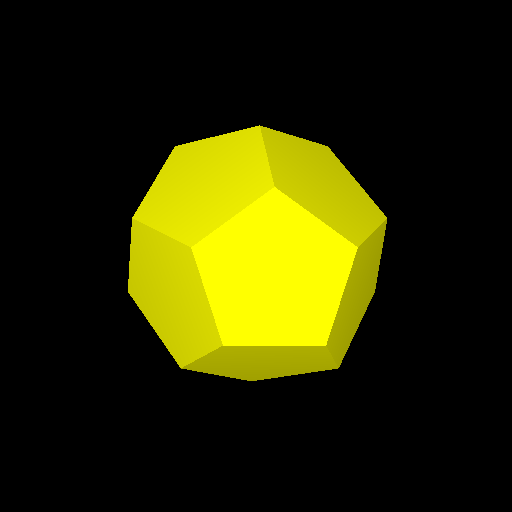
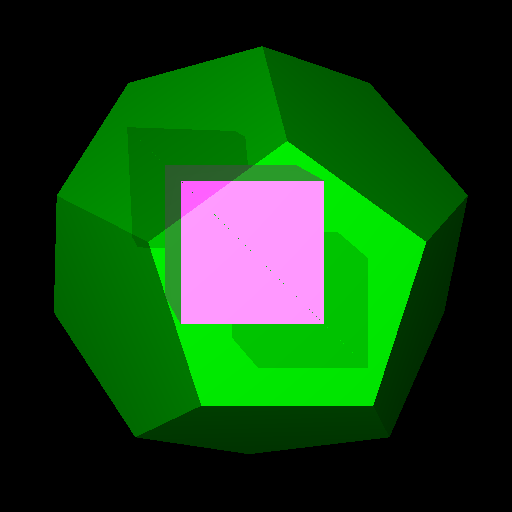
Trying to put object inside dodekaedr...

diff --git a/Source/main.cpp b/Source/main.cpp
@@ -22,6 +22,23 @@ find_hit(std::vector<Object *> *scene, Ray ray) {
     return hit;
 }
 
+float
+find_light(std::vector<Object *> *scene, std::vector<Light> *lights, Vec intersect, Collision hit) {
+    size_t light_len = lights->size();
+    float add = 0;
+    for (size_t i = 0; i < light_len; i++) {
+        Vec light_dir = (*lights)[i].pos - intersect;
+        Ray to_light(intersect, light_dir.normalize());
+        Collision intersected = find_hit(scene, to_light);
+        if (!intersected.hit) {
+            float angle = abs(dot(light_dir.normalize(), hit.normal.normalize()));
+            float distance = light_dir.len();
+            add += angle * ((*lights)[i].intensity / (distance * distance));
+        }
+    }
+    return add;
+}
+
 void 
 render(int size) {
     if (size < 0) {
@@ -34,62 +51,53 @@ render(int size) {
             buffer[x + y * size] = Color(0, 0, 0, 1.f);
         }
     }
-    float size_f = size;
     std::vector<Light> lights = std::vector<Light>();
     lights.push_back(Light(Vec(0, 0, -size * 5), 10000000));
-    //lights.push_back(Light(Vec(0, 0, 0), 1)); 
+    lights.push_back(Light(Vec(-size, -size, -size * 5), 10000000));
+    
     std::vector<Object*> scene = std::vector<Object*>();
+    std::vector<Object*> sphere = std::vector<Object*>();
 
     float me_dist = size * 2;
     Vec me(0, 0, -me_dist);
- /*   float side = size_f / 5;
-    float small_side = side / 3;
-    float big_side = size_f / 2;
-
-    Vec shift(size / 5, size / 5, 0);
     
-    Rectangle big(Vec(0, 0, size) + shift, Vec(0, big_side, size) + shift, Vec(big_side, big_side, size) + shift, Vec(big_side, 0, size) + shift);
+    Dodekaedr d(Vec(size / 3, size / 3, 0), Vec(0, 0, 1), size / 5);
+   
+    float side = size / 5; 
+    Vec shift(size / 4, size / 4, size / 3);
     Rectangle base(Vec(0, 0, 0) + shift, Vec(0, side, 0) + shift, Vec(side, side, 0) + shift, Vec(side, 0, 0) + shift);
-    Rectangle small(Vec(0, 0, -size) + shift, Vec(0, small_side, -size) + shift, Vec(small_side, small_side, -size) + shift, Vec(small_side, 0, -size) + shift);
-    
     Cube cube(base);
-    Cube small_cube(small);
-    Cube big_cube(big); 
-    
-    scene.push_back(&cube);
-    scene.push_back(&small_cube);
-    scene.push_back(&big_cube);
-*/
-    //Pentagon p(Vec(size / 3, size / 3, 0), Vec(size / 10, 0, 0), Vec(0, 0, 1));
-    Dodekaedr d(Vec(size / 3, size / 3, 0), Vec(0, 0, 1), size / 8);
-    scene.push_back(&d);
-    //scene.push_back(&p);
 
-    float base_light = 0.1;
+    sphere.push_back(&d);
+    scene.push_back(&cube);
+
+    float base_sphere_light = 0.2;
+    float base_scene_light = 0.4;
+    float EPS = 0.05;
     for (int x = 0; x < size; x++) {
         for (int y = 0; y < size; y++) {
             Vec dir = (Vec(x, y, size) - me).normalize();
             Ray ray = Ray(me, dir);
-            Collision hit = find_hit(&scene, ray);
+            Collision hit = find_hit(&sphere, ray);
+            //find_hit(&scene, ray);
             
             if (hit.hit) {
-                buffer[x + y * size] = Color(1, 1, 0, 1) * base_light;
-                Vec intersect = me + (dir * hit.dist);
-                for (size_t i = 0; i < lights.size(); i++) {
-                    Vec light_dir = lights[i].pos - intersect;
-                    Ray to_light(intersect, light_dir.normalize());
-                    Collision intersected = find_hit(&scene, to_light);
-                    if (!intersected.hit) {
-                        float angle = abs(dot(light_dir.normalize(), hit.normal.normalize()));
-                        float distance = light_dir.len();
-                        Color add(1, 1, 0);
-                        add = add * angle;
-                        add = add * (lights[i].intensity / (distance * distance));
-                        buffer[x + y * size] = buffer[x + y * size] + add;
-                    } else {
-                        //std::cout << "no light " << intersected.dist << '\n';
-                    }
-                    
+                // dodekaedr color
+                Vec intersect_sphere = me + (dir * hit.dist);
+                float d_add = find_light(&sphere, &lights, intersect_sphere, hit);
+                buffer[x + y * size] = Color(0, 1, 0, 1) * (base_sphere_light * d_add);
+                
+                Ray inside_ray = Ray(intersect_sphere, dir);
+                Collision scene_hit = find_hit(&scene, inside_ray);
+                if (scene_hit.hit) {
+                    Vec intersect = intersect_sphere + (dir * scene_hit.dist);
+                    float add = find_light(&scene, &lights, intersect_sphere, scene_hit);
+                    buffer[x + y * size] = buffer[x + y * size] + (Color(1, 0, 1, 1) * (base_scene_light * add));
+                } else {
+                    hit = find_hit(&sphere, ray);
+                    intersect_sphere = intersect_sphere + (dir * hit.dist);
+                    d_add = find_light(&scene, &lights, intersect_sphere, hit);
+                    buffer[x + y * size] = buffer[x + y * size] + (Color(0, 1, 0, 1) * (base_sphere_light * d_add));
                 }
             }
         }

diff --git a/README.md b/README.md
@@ -1,6 +1,4 @@
-Current result
+#Current result
+
 ![alt_text](https://github.com/GetsuDer/WitchSphere/blob/main/328_derevyanko_v4v5.png)
 
-Starting from the very beginning...
-AAAAA
-Help me, please
